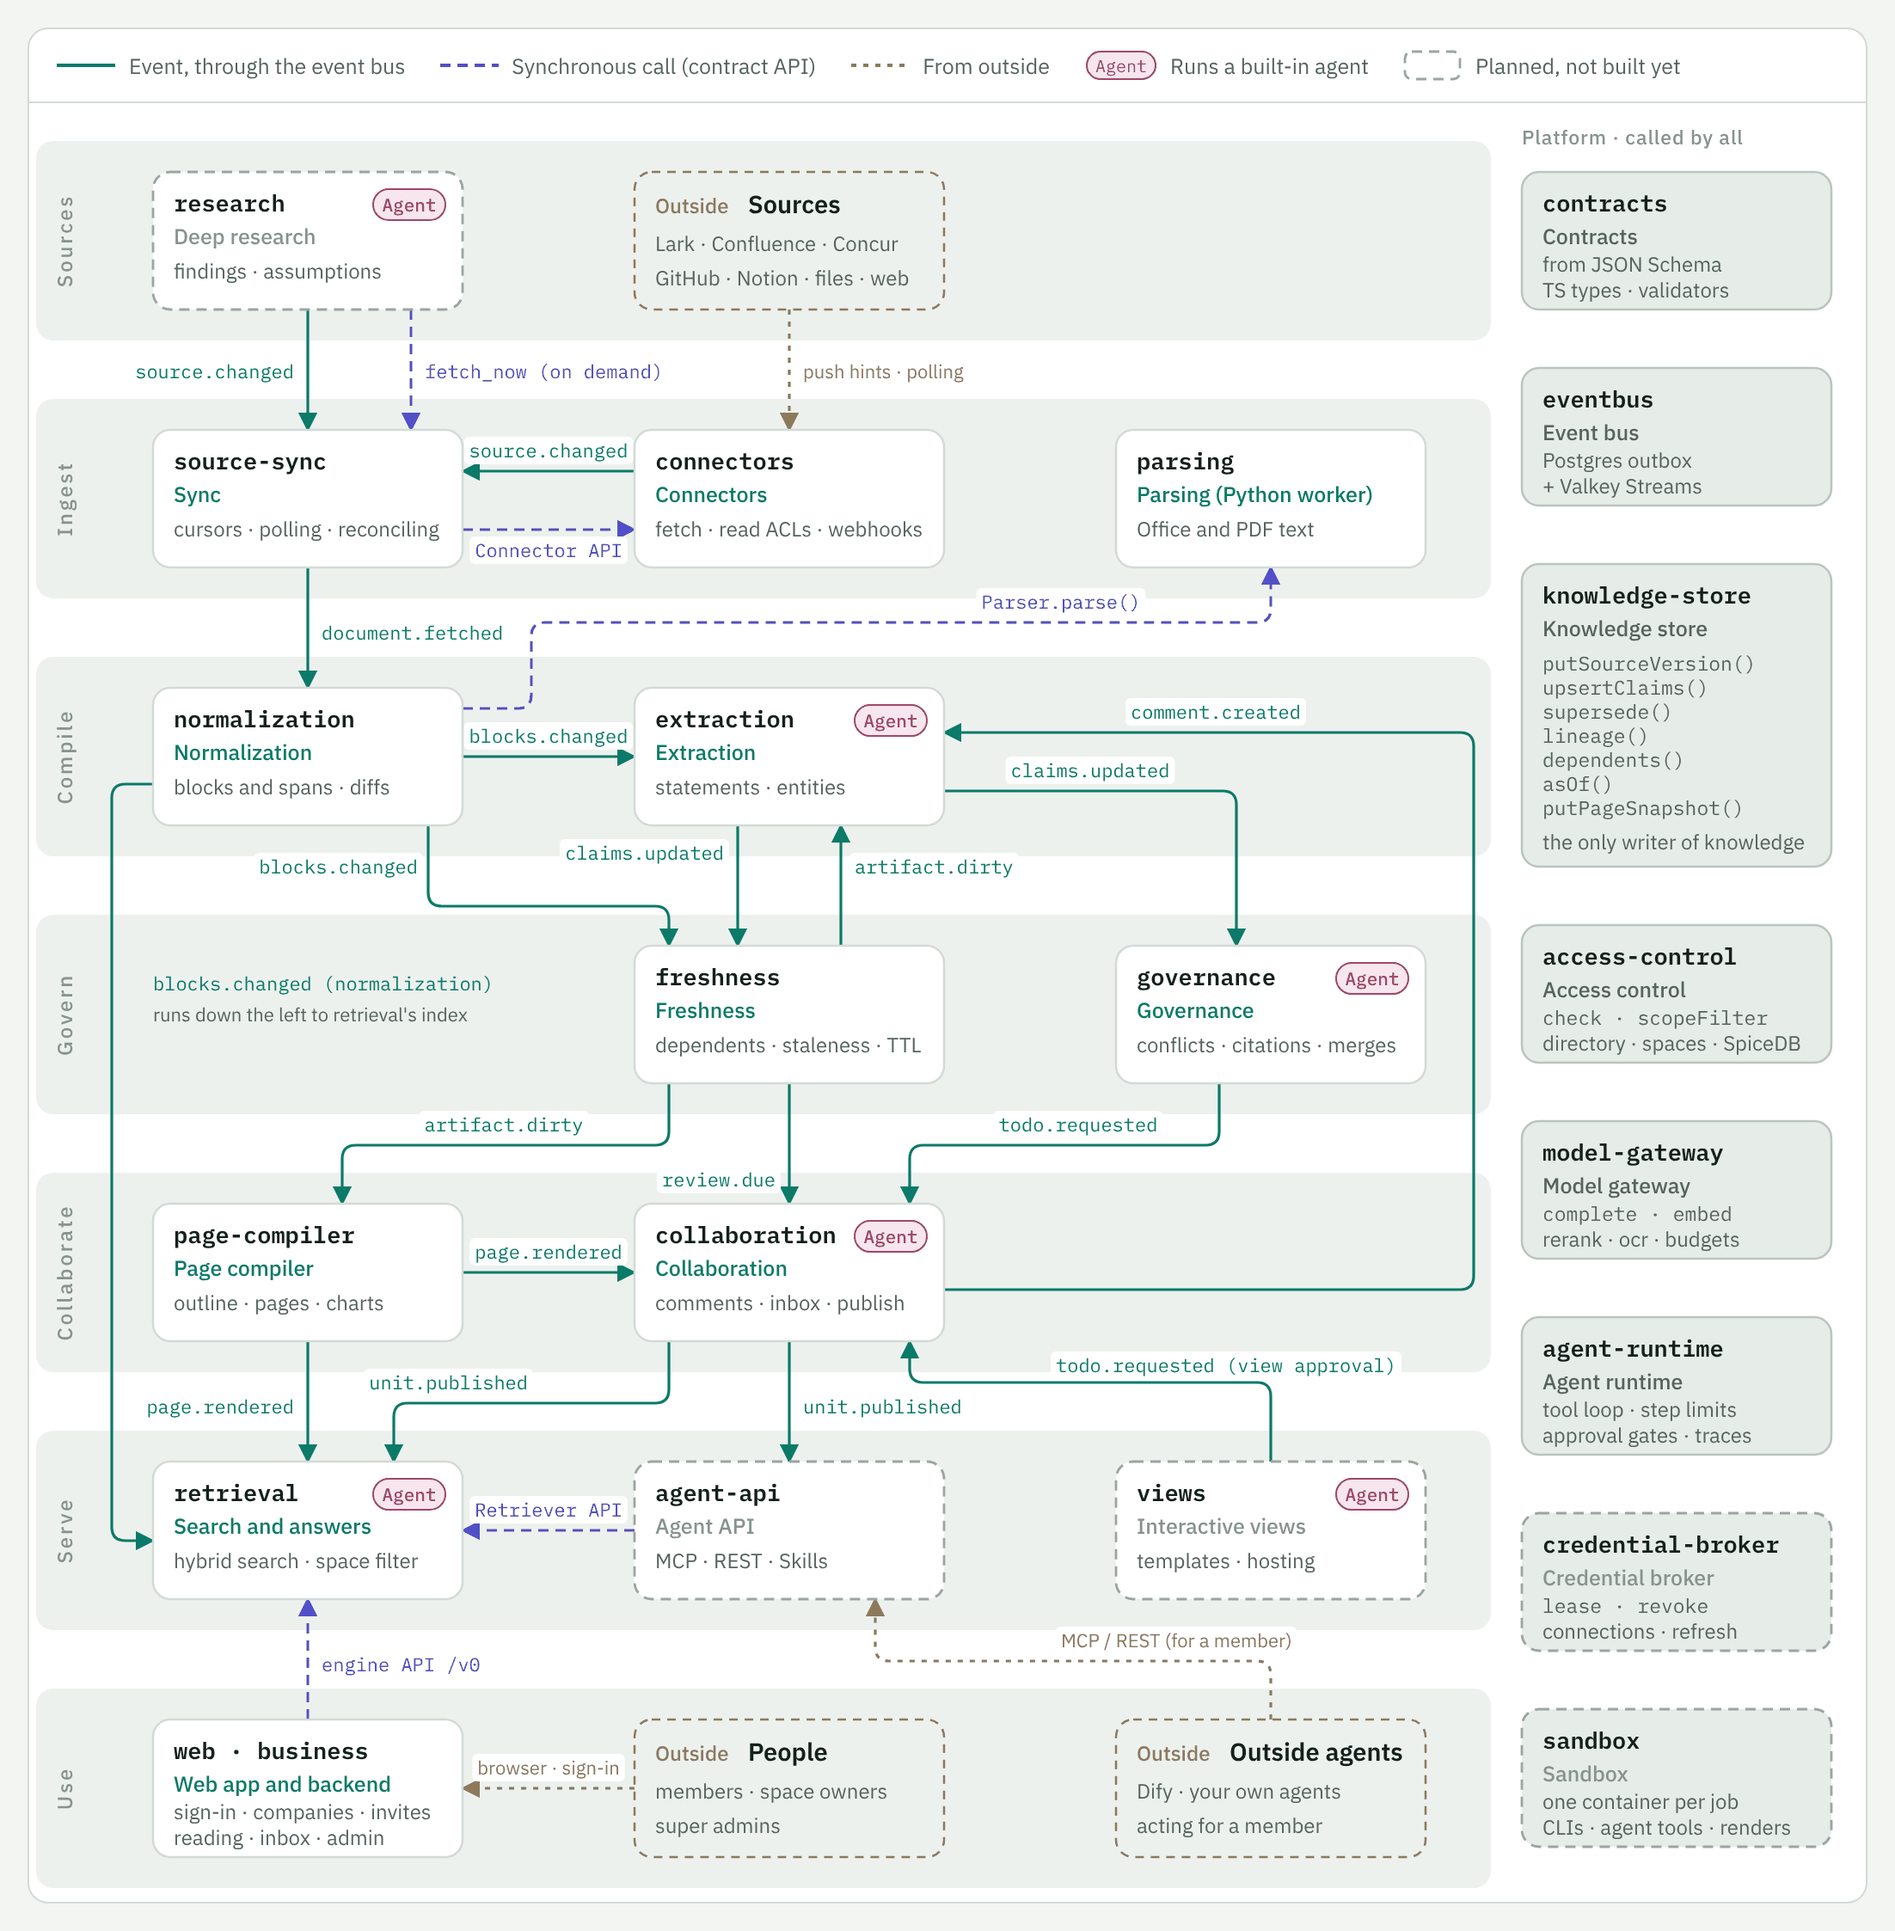
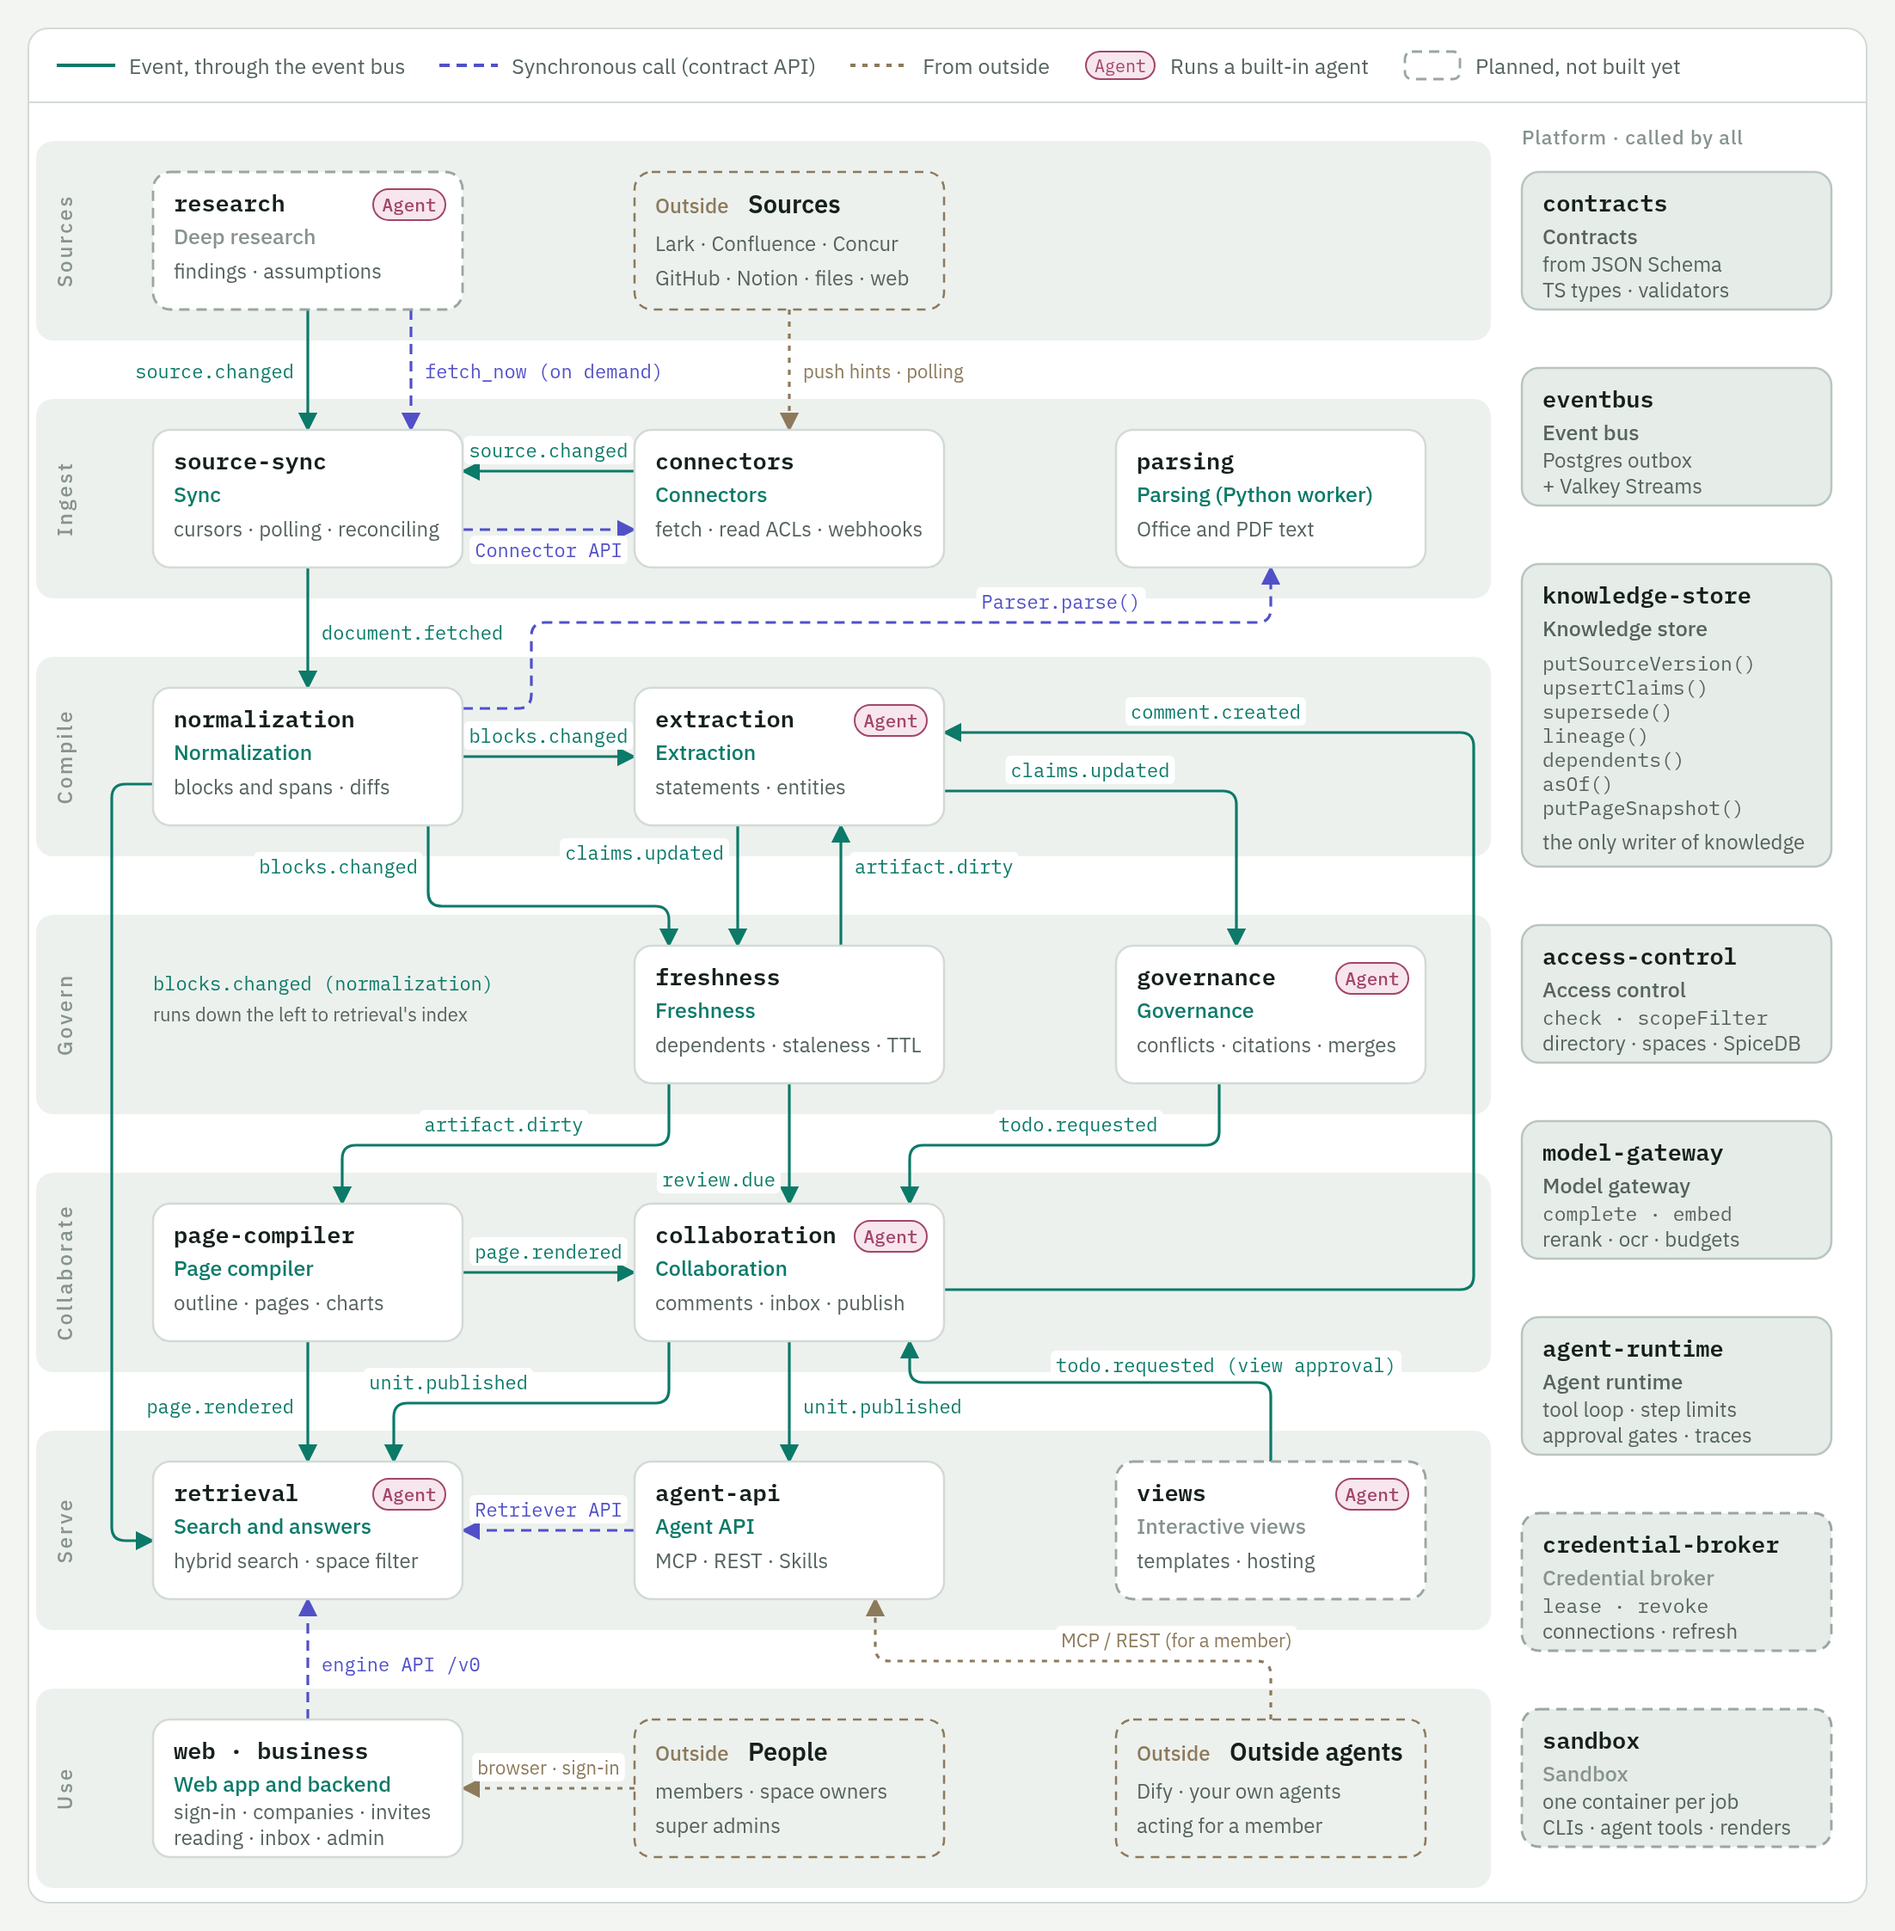
docs: show agent-api as built in the component diagram
Address review: the alt text and count call agent-api built, so the source drops its
planned flag and the six images are rendered again from it.

Changed region(s): [[0.3394, 0.7792, 0.4011, 0.8103]]

diff --git a/docs/assets/components.html b/docs/assets/components.html
@@ -99,7 +99,7 @@ svg#dia { display: block; width: 1070px; height: auto; }
     "page-compiler": { x: C1, y: T[4], name: "page-compiler", cn: ["Page compiler", "页面编译器", "ページコンパイラ"], desc: ["outline · pages · charts", "目录 · 页面 · 图表", "目次 · ページ · 図表"] },
     collaboration: { x: C2, y: T[4], name: "collaboration", cn: ["Collaboration", "协作与发布", "協働と公開"], desc: ["comments · inbox · publish", "评论 · 覆盖 · 待办 · 发布", "コメント · 受信箱 · 公開"], agent: true },
     retrieval: { x: C1, y: T[5], name: "retrieval", cn: ["Search and answers", "索引、检索与回答", "検索と回答"], desc: ["hybrid search · space filter", "混合检索 · 重排 · 空间过滤", "ハイブリッド検索 · 権限"], agent: true },
-    "agent-api": { x: C2, y: T[5], name: "agent-api", cn: ["Agent API", "Agent 接口", "エージェント API"], desc: ["MCP · REST · Skills", "MCP · REST · Skills", "MCP · REST · Skills"], planned: true },
+    "agent-api": { x: C2, y: T[5], name: "agent-api", cn: ["Agent API", "Agent 接口", "エージェント API"], desc: ["MCP · REST · Skills", "MCP · REST · Skills", "MCP · REST · Skills"] },
     views: { x: C3, y: T[5], name: "views", cn: ["Interactive views", "交互视图", "インタラクティブビュー"], desc: ["templates · hosting", "模板 · 生成 · 托管", "テンプレート · 生成 · 配信"], agent: true, planned: true },
     web: { x: C1, y: T[6], name: "web · business", cn: ["Web app and backend", "Web 应用与业务后端", "Web アプリと業務層"], desc: ["sign-in · companies · invites", "登录 · 企业 · 成员 · 邀请", "サインイン · 企業 · 招待"], desc2: ["reading · inbox · admin", "阅读 · 待办 · 管理", "閲覧 · 受信箱 · 管理"] },
     USER: { x: C2, y: T[6], name: ["People", "人", "人"], desc: ["members · space owners", "成员 · 空间负责人", "メンバー · スペース担当者"], desc2: ["super admins", "超级管理员", "特権管理者"], ext: true },
